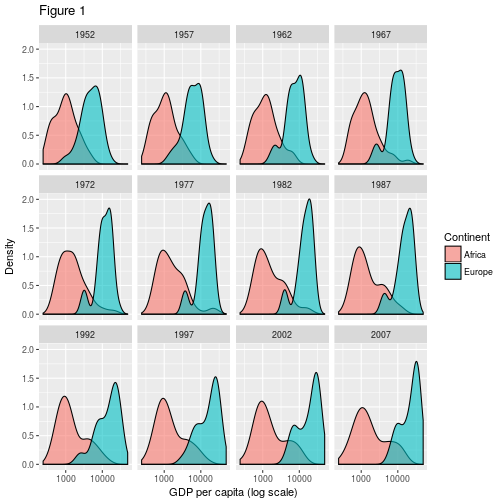
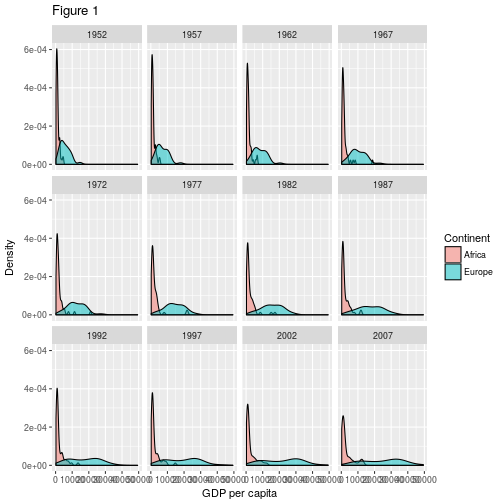
Rewrite exercise 5

diff --git a/_episodes/05-plot-ggplot2.md b/_episodes/05-plot-ggplot2.md
@@ -439,109 +439,155 @@ x-axis.  If we want plot the y-axis on a log scale we can use the `scale_y_log10
 > {: .solution}
 {: .challenge}
 
-> ## Plotting 1D data
-> 
-> In the examples so far we've plotted one variable against another.  Often we wish to plot single variable. We can
-> plot counts using `geom_bar()`.  For example, to plot the number of counties in the gapminder data that are in each
-> continent we can use:
-> 
-> 
-> ~~~
-> gapminder %>% filter(year == 2007) %>%
->   ggplot(aes(x=continent)) + 
->   geom_bar()
-> ~~~
-> {: .language-r}
-> 
-> <img src="../fig/rmd-06-unnamed-chunk-10-1.png" title="plot of chunk unnamed-chunk-10" alt="plot of chunk unnamed-chunk-10" style="display: block; margin: auto;" />
-> 
-> We filter to a single year of data to avoid multiple counting
-> 
-> We often wish to explore the distribution of a continuous variable.  We can do this using a histogram (`geom_histogram()`), 
-> or a density plot (`geom_density()`)
-> 
-> For example, to produce a histogram of GDPs per capita for countries in Europe in 2007:
-> 
-> 
-> ~~~
-> gapminder %>% filter(year == 2007, continent == "Europe") %>% 
->   ggplot(aes(x=gdpPercap)) + geom_histogram(bins = 10)
-> ~~~
-> {: .language-r}
-> 
-> <img src="../fig/rmd-06-unnamed-chunk-11-1.png" title="plot of chunk unnamed-chunk-11" alt="plot of chunk unnamed-chunk-11" style="display: block; margin: auto;" />
-> 
-> We can specify the number of bins (`bins = `), or the width of a bin (`binwidth = `).
-> 
-> We can plot a density plot using `geom_density()`.  This is a smoothed version of a histogram.
-> 
-> 
-> ~~~
-> gapminder %>% 
->   filter(year == 2007, continent == "Europe") %>% 
->   ggplot(aes(x = gdpPercap, fill = continent)) + 
->   geom_density() 
-> ~~~
-> {: .language-r}
-> 
-> <img src="../fig/rmd-06-unnamed-chunk-12-1.png" title="plot of chunk unnamed-chunk-12" alt="plot of chunk unnamed-chunk-12" style="display: block; margin: auto;" />
-> 
-> > ## Challenge 5
-> > 
-> > Create a density plot of GDP per capita, filled by continent. You 
-> > may find making the density estimates partially transparent produces a clearer graph.
-> > As there are only 2 countries in Oceania, a density plot isn't going to be useful for
-> > this continent, so don't plot the data for it.
-> > 
-> > Advanced:
-> > 
-> >  - Log transform the x axis to better visualise the data spread.
-> >  - Add a facet layer produce a separate density plot for each year.
-> > 
-> > > ## Solution to challenge 5
-> > 
-> > 
-> > ~~~
-> >  gapminder %>%  
-> >   filter(year == 2007) %>% 
-> >   filter(continent != "Oceania") %>% 
-> >   ggplot(aes(x = gdpPercap, fill = continent)) +
-> >   geom_density(alpha = 0.6) 
-> > ~~~
-> > {: .language-r}
-> > 
-> > <img src="../fig/rmd-06-ch5-sol-1.png" title="plot of chunk ch5-sol" alt="plot of chunk ch5-sol" style="display: block; margin: auto;" />
-> > We can make this clearer by applying a log transform to the x axis, and facetting by year:
-> > 
-> > 
-> > ~~~
-> >  gapminder %>%  
-> >  filter(continent != "Oceania") %>% 
-> >   ggplot(aes(x = gdpPercap, fill = continent)) +
-> >   geom_density(alpha = 0.6) + facet_wrap( ~ year) + scale_x_log10()
-> > ~~~
-> > {: .language-r}
-> > 
-> > <img src="../fig/rmd-06-ch5-sol-adv-1.png" title="plot of chunk ch5-sol-adv" alt="plot of chunk ch5-sol-adv" style="display: block; margin: auto;" />
-> {: .solution}
-{: .challenge}
+## Plotting 1D data
 
-The figure we produced in challenge 6 is visually rather complicated; it's difficult
-to get a feel for how the different continents' GDPs are changing over time.  Let's focus on 
-just a couple of continents.  
+In the examples so far we've plotted one variable against another.  Often we wish to plot single variable. We can
+plot counts using `geom_bar()`.  For example, to plot the number of counties in the gapminder data that are in each
+continent we can use:
+
+
+~~~
+gapminder %>% filter(year == 2007) %>%
+  ggplot(aes(x=continent)) + 
+  geom_bar()
+~~~
+{: .language-r}
+
+<img src="../fig/rmd-06-unnamed-chunk-10-1.png" title="plot of chunk unnamed-chunk-10" alt="plot of chunk unnamed-chunk-10" style="display: block; margin: auto;" />
+
+We filter to a single year of data to avoid multiple counting
+
+We often wish to explore the distribution of a continuous variable.  We can do this using a histogram (`geom_histogram()`), 
+or a density plot (`geom_density()`)
+
+For example, to produce a histogram of GDPs per capita for countries in Europe in 2007:
+
+
+~~~
+gapminder %>% filter(year == 2007, continent == "Europe") %>% 
+  ggplot(aes(x=gdpPercap)) + geom_histogram(bins = 10)
+~~~
+{: .language-r}
+
+<img src="../fig/rmd-06-unnamed-chunk-11-1.png" title="plot of chunk unnamed-chunk-11" alt="plot of chunk unnamed-chunk-11" style="display: block; margin: auto;" />
+
+We can specify the number of bins (`bins = `), or the width of a bin (`binwidth = `).
+
+We can plot a density plot using `geom_density()`.  This is a smoothed version of a histogram.
 
 
 ~~~
 gapminder %>% 
-  filter(continent %in% c("Europe", "Africa")) %>% 
-  ggplot(aes(x = gdpPercap, fill = continent)) +
-  facet_wrap( ~ year) + 
-  scale_x_log10() + 
-  geom_density(alpha = 0.6) 
+  filter(year == 2007, continent == "Europe") %>% 
+  ggplot(aes(x = gdpPercap)) + 
+  geom_density() 
 ~~~
 {: .language-r}
 
-<img src="../fig/rmd-06-unnamed-chunk-13-1.png" title="plot of chunk unnamed-chunk-13" alt="plot of chunk unnamed-chunk-13" style="display: block; margin: auto;" />
+<img src="../fig/rmd-06-unnamed-chunk-12-1.png" title="plot of chunk unnamed-chunk-12" alt="plot of chunk unnamed-chunk-12" style="display: block; margin: auto;" />
+
+By default the density estimate is drawn in outline (i.e. it isn't filled in).  We can use the `fill` attribute to fill it in; this can be
+passed in the aesthetic (e.g. `aes(x = gdpPercap, fill = ...))`) to fill according to the data, or directly to `geom_density()`.
+
+> ## Challenge 5
+> 
+> In this challenge, we'll extend the plot above to compare the distributions of GDP per capita in Europe and Africa over time.
+> As the challenge is quite long, it's broken down into sections.  _Please_ try each section
+> beforelooking at the answer.
+>
+> a.  We'll start off by plotting the data for a single year, before extending the plot for multiple years.  Using the code above as a starting point, write some code to return a tibble containing the data for Europe and Africa in 2007.
+>
+> > ## Solution a
+> > 
+> > 
+> > ~~~
+> > gapminder %>% 
+> >   filter(year == 2007) %>% 
+> >   filter(continent %in% c("Europe", "Africa"))
+> > ~~~
+> > {: .language-r}
+> > 
+> > 
+> > 
+> > ~~~
+> > # A tibble: 82 x 6
+> >                   country  year      pop continent lifeExp gdpPercap
+> >                     <chr> <int>    <dbl>     <chr>   <dbl>     <dbl>
+> >  1                Albania  2007  3600523    Europe  76.423  5937.030
+> >  2                Algeria  2007 33333216    Africa  72.301  6223.367
+> >  3                 Angola  2007 12420476    Africa  42.731  4797.231
+> >  4                Austria  2007  8199783    Europe  79.829 36126.493
+> >  5                Belgium  2007 10392226    Europe  79.441 33692.605
+> >  6                  Benin  2007  8078314    Africa  56.728  1441.285
+> >  7 Bosnia and Herzegovina  2007  4552198    Europe  74.852  7446.299
+> >  8               Botswana  2007  1639131    Africa  50.728 12569.852
+> >  9               Bulgaria  2007  7322858    Europe  73.005 10680.793
+> > 10           Burkina Faso  2007 14326203    Africa  52.295  1217.033
+> > # ... with 72 more rows
+> > ~~~
+> > {: .output}
+> > This returns a tibble, which we can then pipe into ggplot.
+> {: .solution}
+> 
+> b. Pipe the results of part a into ggplot, to make a density plot of GDP per capita, coloured by continent (e.g. each continent has its own density estimate)
+> 
+> > ## Solution b
+> > 
+> > 
+> > ~~~
+> > gapminder %>% 
+> >   filter(year == 2007) %>% 
+> >   filter(continent %in% c("Europe", "Africa")) %>% 
+> >   ggplot(aes(x = gdpPercap, fill = continent)) +
+> >   geom_density()
+> > ~~~
+> > {: .language-r}
+> > 
+> > <img src="../fig/rmd-06-unnamed-chunk-14-1.png" title="plot of chunk unnamed-chunk-14" alt="plot of chunk unnamed-chunk-14" style="display: block; margin: auto;" />
+> >
+> {: .solution}
+>
+> c. This looks OK, but the continent's density estimates overlay each other.  Use the `alpha =` option to make each density estimate
+> semi transparent
+>
+> > ## Solution c
+> >
+> > 
+> > ~~~
+> > gapminder %>% 
+> >   filter(year == 2007) %>% 
+> >   filter(continent %in% c("Europe", "Africa")) %>% 
+> >   ggplot(aes(x = gdpPercap, fill = continent)) +
+> >   geom_density(alpha = 0.5) 
+> > ~~~
+> > {: .language-r}
+> > 
+> > <img src="../fig/rmd-06-unnamed-chunk-15-1.png" title="plot of chunk unnamed-chunk-15" alt="plot of chunk unnamed-chunk-15" style="display: block; margin: auto;" />
+> > 
+> {: .solution}
+> 
+> d.  Let's take a look at how the relative GDPs per capita have changed over time.  We can use `facet_wrap()` to do  this.  
+> Modify your code to produce a separate graph for each year
+>
+>
+> > ## Solution d
+> >
+> > 
+> > ~~~
+> > gapminder %>% 
+> >   filter(continent %in% c("Europe", "Africa")) %>% 
+> >   ggplot(aes(x =gdpPercap, fill = continent)) +
+> >   geom_density(alpha = 0.5) +
+> >   facet_wrap("year")
+> > ~~~
+> > {: .language-r}
+> > 
+> > <img src="../fig/rmd-06-unnamed-chunk-16-1.png" title="plot of chunk unnamed-chunk-16" alt="plot of chunk unnamed-chunk-16" style="display: block; margin: auto;" />
+> > Note that you need to remove the `filter(year == 2007)` line from the code.
+> >
+> {: .solution}
+{: .challenge}
+  
 
 ## Modifying text
 
@@ -561,11 +607,10 @@ of a fill legend would be set using `fill = "MyTitle"`.
 gapminder %>% 
   filter(continent %in% c("Europe", "Africa")) %>% 
   ggplot(aes(x = gdpPercap, fill = continent)) +
-  facet_wrap( ~ year) + 
-  scale_x_log10() + 
-  geom_density(alpha = 0.6) +
+  geom_density(alpha = 0.5) +
+  facet_wrap("year") + 
   labs(
-    x = "GDP per capita (log scale)", # x axis title
+    x = "GDP per capita", # x axis title
     y = "Density",   # y axis title
     title = "Figure 1",      # main title of figure
     fill = "Continent"      # title of legend
@@ -576,7 +621,7 @@ gapminder %>%
 <img src="../fig/rmd-06-theme-1.png" title="plot of chunk theme" alt="plot of chunk theme" style="display: block; margin: auto;" />
 
 
- RStudio provides a really useful [cheat sheet][cheat] of the different layers available, and more
+RStudio provides a really useful [cheat sheet][cheat] of the different layers available, and more
 extensive documentation is available on the [ggplot2 website][ggplot-doc].
 
 [cheat]: http://www.rstudio.com/wp-content/uploads/2015/03/ggplot2-cheatsheet.pdf
@@ -618,15 +663,14 @@ library(ggridges)
 gapminder %>% 
   filter(continent %in% c("Europe", "Africa")) %>% 
   ggplot(aes(x = gdpPercap, y = factor(year), fill = continent)) +
-  scale_x_log10() + 
-  geom_density_ridges(alpha = 0.6) 
+  geom_density_ridges(alpha = 0.5) 
 ~~~
 {: .language-r}
 
 
 
 ~~~
-Picking joint bandwidth of 0.128
+Picking joint bandwidth of 1850
 ~~~
 {: .output}
 
